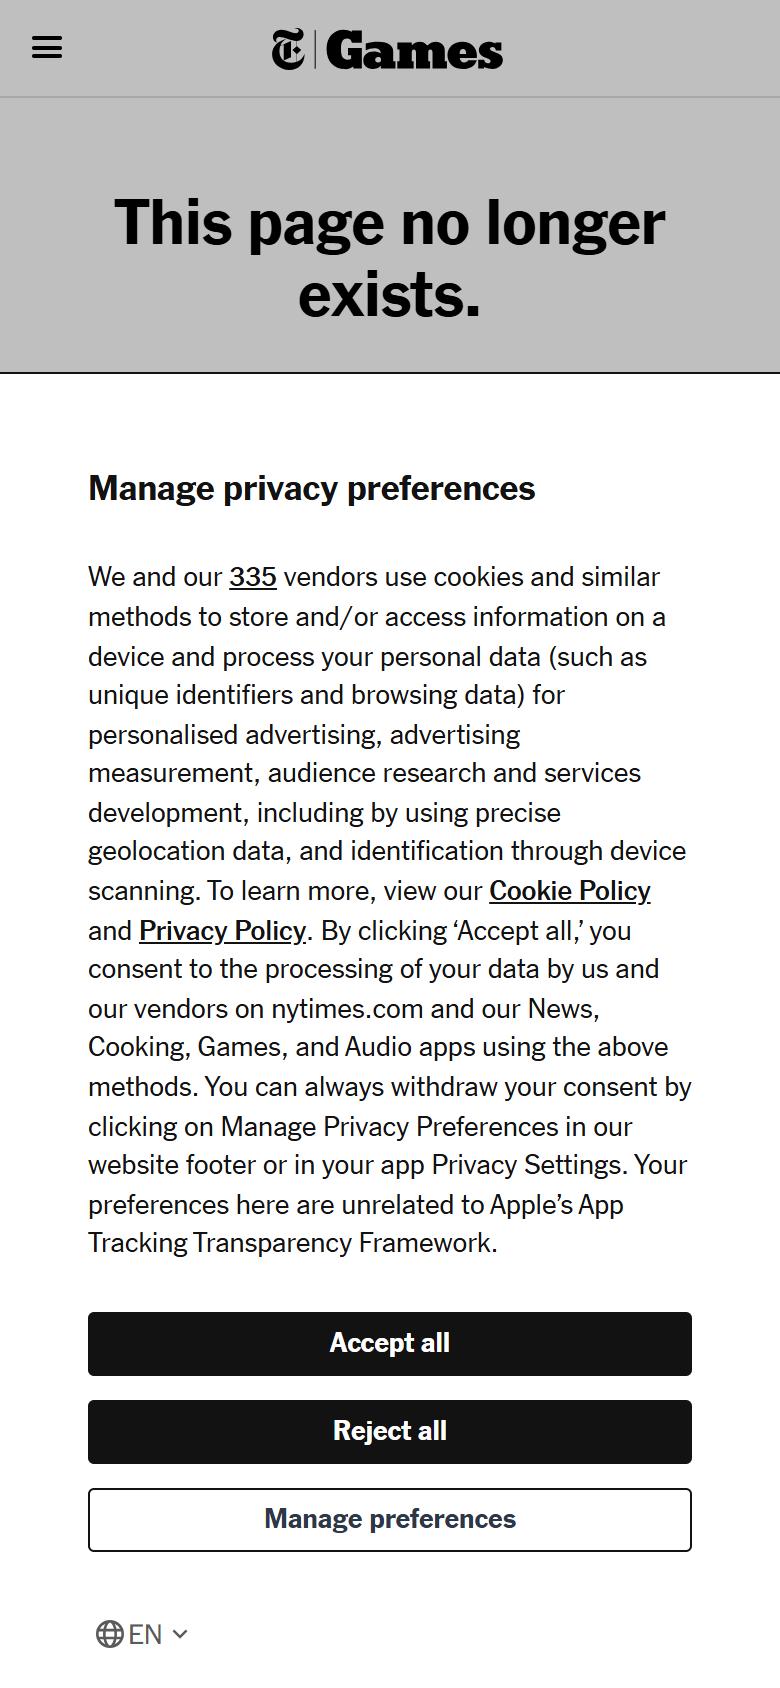
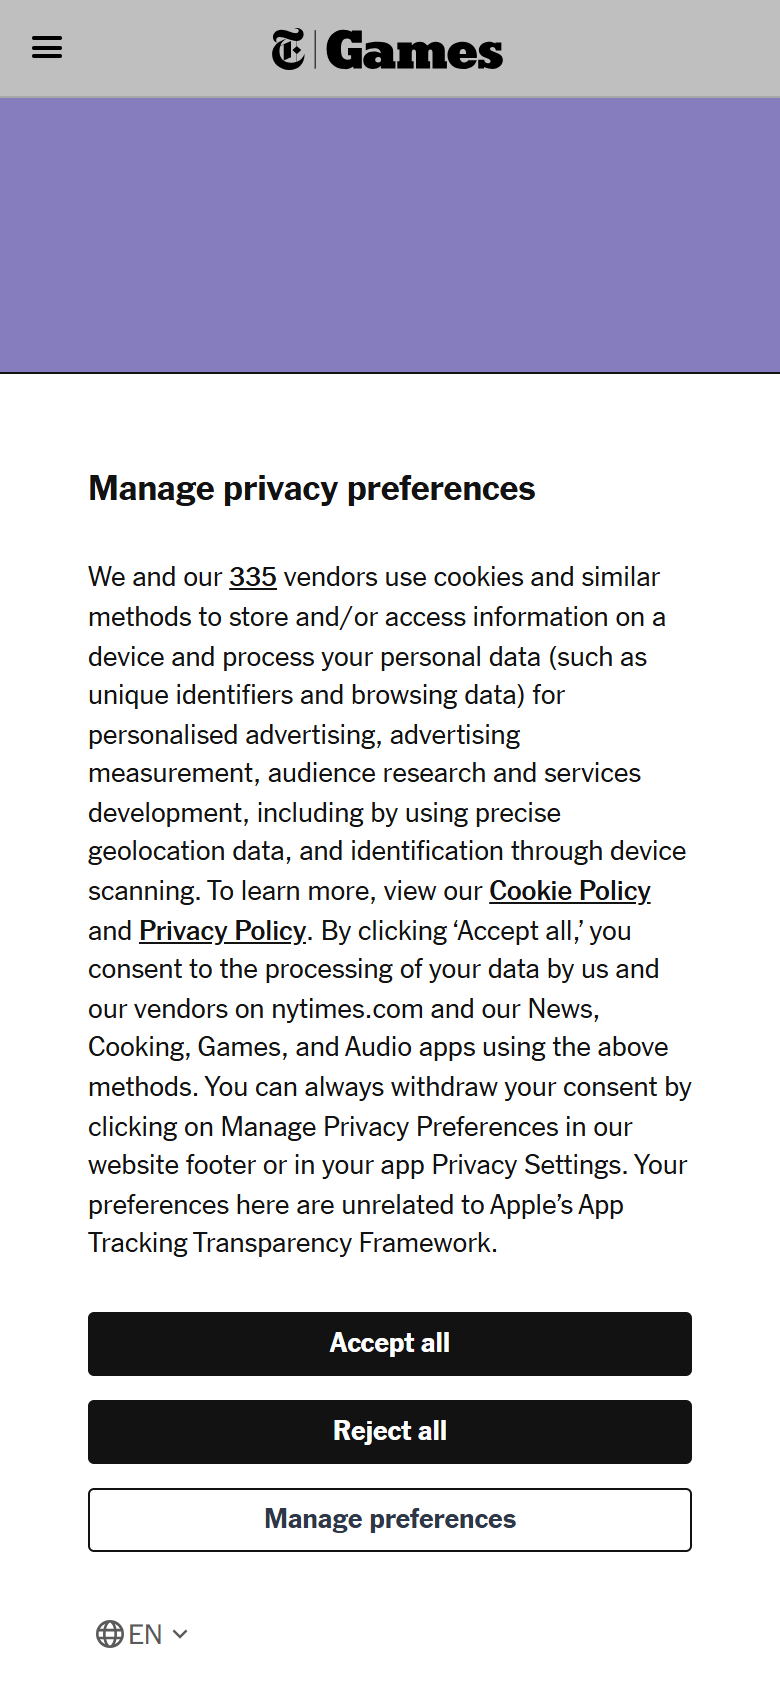
Close remaining navigation dead ends
- Chronicles had no entrance at all: nothing navigated to /chronicles,
  stranding sound/reduced-motion settings, keepsakes and the save
  export/import trunk behind an undiscoverable URL. Added a Chronicles
  button beside Journal in the blueprint footer.
- Dialogue skip was --ink-faint with a phantom tap target; it is now a
  proper plate matching BackLink, real 44pt, pressed/focus/reduced-motion
  states, legible in both themes. Mount conditions unchanged.

Changed region(s): [[0.0, 0.0308, 1.0, 0.2464]]

diff --git a/src/ui/dialogue/dialogue.css b/src/ui/dialogue/dialogue.css
@@ -119,28 +119,59 @@
   border-color: var(--gilt);
 }
 
+/* ROUND 5 — the same failure class as the journal back button. `.dlg` is a
+   full-screen overlay (fixed, inset 0, z-index 40) mounted from five call
+   sites, and mid-scene this was its ONLY exit: border:none, background:none,
+   --ink-faint — the faintest token in the system, painted on --paper-raised,
+   with its 44pt target hidden in an invisible pseudo-element. It did not read
+   as a control at all.
+
+   It is a plate now, the same grammar as ui/chrome/back-link.css: --rule +
+   --radius-card on --paper, --ink-soft ink (never --ink-faint again), the real
+   --tap-target floor on both axes instead of a phantom one. It stays quieter
+   than the choice buttons — it is an aside, not the headline — but it is
+   legible as a way out. Tokens only, so both themes come free.
+
+   The plate row was measured at 390px with 17px of slack (round-4 note above),
+   so the horizontal padding stays mean and the row centres rather than sitting
+   on the nameplate's baseline. WHEN the skip appears is unchanged. */
 .dlg__skip {
   position: relative;
   margin-left: auto;
-  min-height: 2rem;
-  padding: 0 0.4rem;
-  border: none;
-  background: none;
-  color: var(--ink-faint);
+  align-self: center;
+  box-sizing: border-box;
+  flex: none;
+  min-height: var(--tap-target);
+  min-width: var(--tap-target);
+  padding: 0.25rem 0.45rem;
+  border: var(--rule);
+  border-radius: var(--radius-card);
+  background: var(--paper);
+  color: var(--ink-soft);
   font-family: var(--font-body);
   font-size: var(--text-sm);
+  line-height: 1.1;
   cursor: pointer;
+  box-shadow: var(--deckle);
+  transition:
+    transform var(--dur-press) var(--ease-settle),
+    background-color var(--dur-press) var(--ease-settle),
+    color var(--dur-press) var(--ease-settle);
 }
-/* The skip verb reads as a small aside but must still be a ≥44pt target
-   (AAA 6.19). Extending the hit area with a pseudo-element buys the pt
-   without inflating the plate row and reflowing the nameplate (round-4). */
-.dlg__skip::after {
-  content: '';
-  position: absolute;
-  inset: -0.45rem -0.35rem;
+/* U.1 (app/platform/boot.ts): `.is-pressed` lands from pointerdown via the
+   capture-phase delegate so the plate presses within a frame on iOS; `:active`
+   is the desktop fallback only. */
+.dlg__skip.is-pressed,
+.dlg__skip:active {
+  background: var(--paper-shade);
+  color: var(--ink);
+  transform: scale(0.985);
 }
-.dlg__skip:active,
-.dlg__skip.is-pressed { color: var(--ink-soft); }
+
+.dlg__skip:focus-visible {
+  outline: 2px solid var(--ink);
+  outline-offset: 2px;
+}
 
 /* CONTENT-FIT line area. It used to be a flat 7.2rem well sized for the
    longest authored box, so Bramble's one-line reactions ("Mind the third
@@ -280,4 +311,18 @@
   .dlg-choice,
   .dlg-choice.is-pressed { transition: none; transform: none; }
   .dlg-portrait__art { transition: none; }
+  /* The skip's press still reads, but as tone alone — the plate and its ink
+     shift are information, the scale is juice. */
+  .dlg__skip { transition: none; }
+  .dlg__skip.is-pressed,
+  .dlg__skip:active { transform: none; }
 }
+
+/* The in-game "Reduce motion" setting mirrors the media query (the .chr--reduced
+   convention from chrome.css / back-link.css). This is live, not defensive: the
+   morning beat mounts DialogueScene from DayTransitions, inside GameChrome's
+   .chr--reduced wrapper. Scoped to the skip — the rest of the scene's motion is
+   A6's to answer for. */
+.chr--reduced .dlg__skip { transition: none; }
+.chr--reduced .dlg__skip.is-pressed,
+.chr--reduced .dlg__skip:active { transform: none; }

diff --git a/src/pages/ManorPage.tsx b/src/pages/ManorPage.tsx
@@ -170,6 +170,13 @@ export default function ManorPage() {
           <button className="bp-btn bp-btn--quiet" onClick={() => navigate('/journal')}>
             Journal
           </button>
+          {/* Round 5: /chronicles had no entrance anywhere in the app — sound,
+              music, reduced motion, the mute-switch bypass, keepsakes and the
+              save trunk all sat behind a URL nobody could reach. It lives with
+              its siblings on the blueprint footer now. */}
+          <button className="bp-btn bp-btn--quiet" onClick={() => navigate('/chronicles')}>
+            Chronicles
+          </button>
         </div>
         {fragmentNote && <p className="bp-foot__dewey">{fragmentNote}</p>}
         {atDewey && petted && !visiting && (
